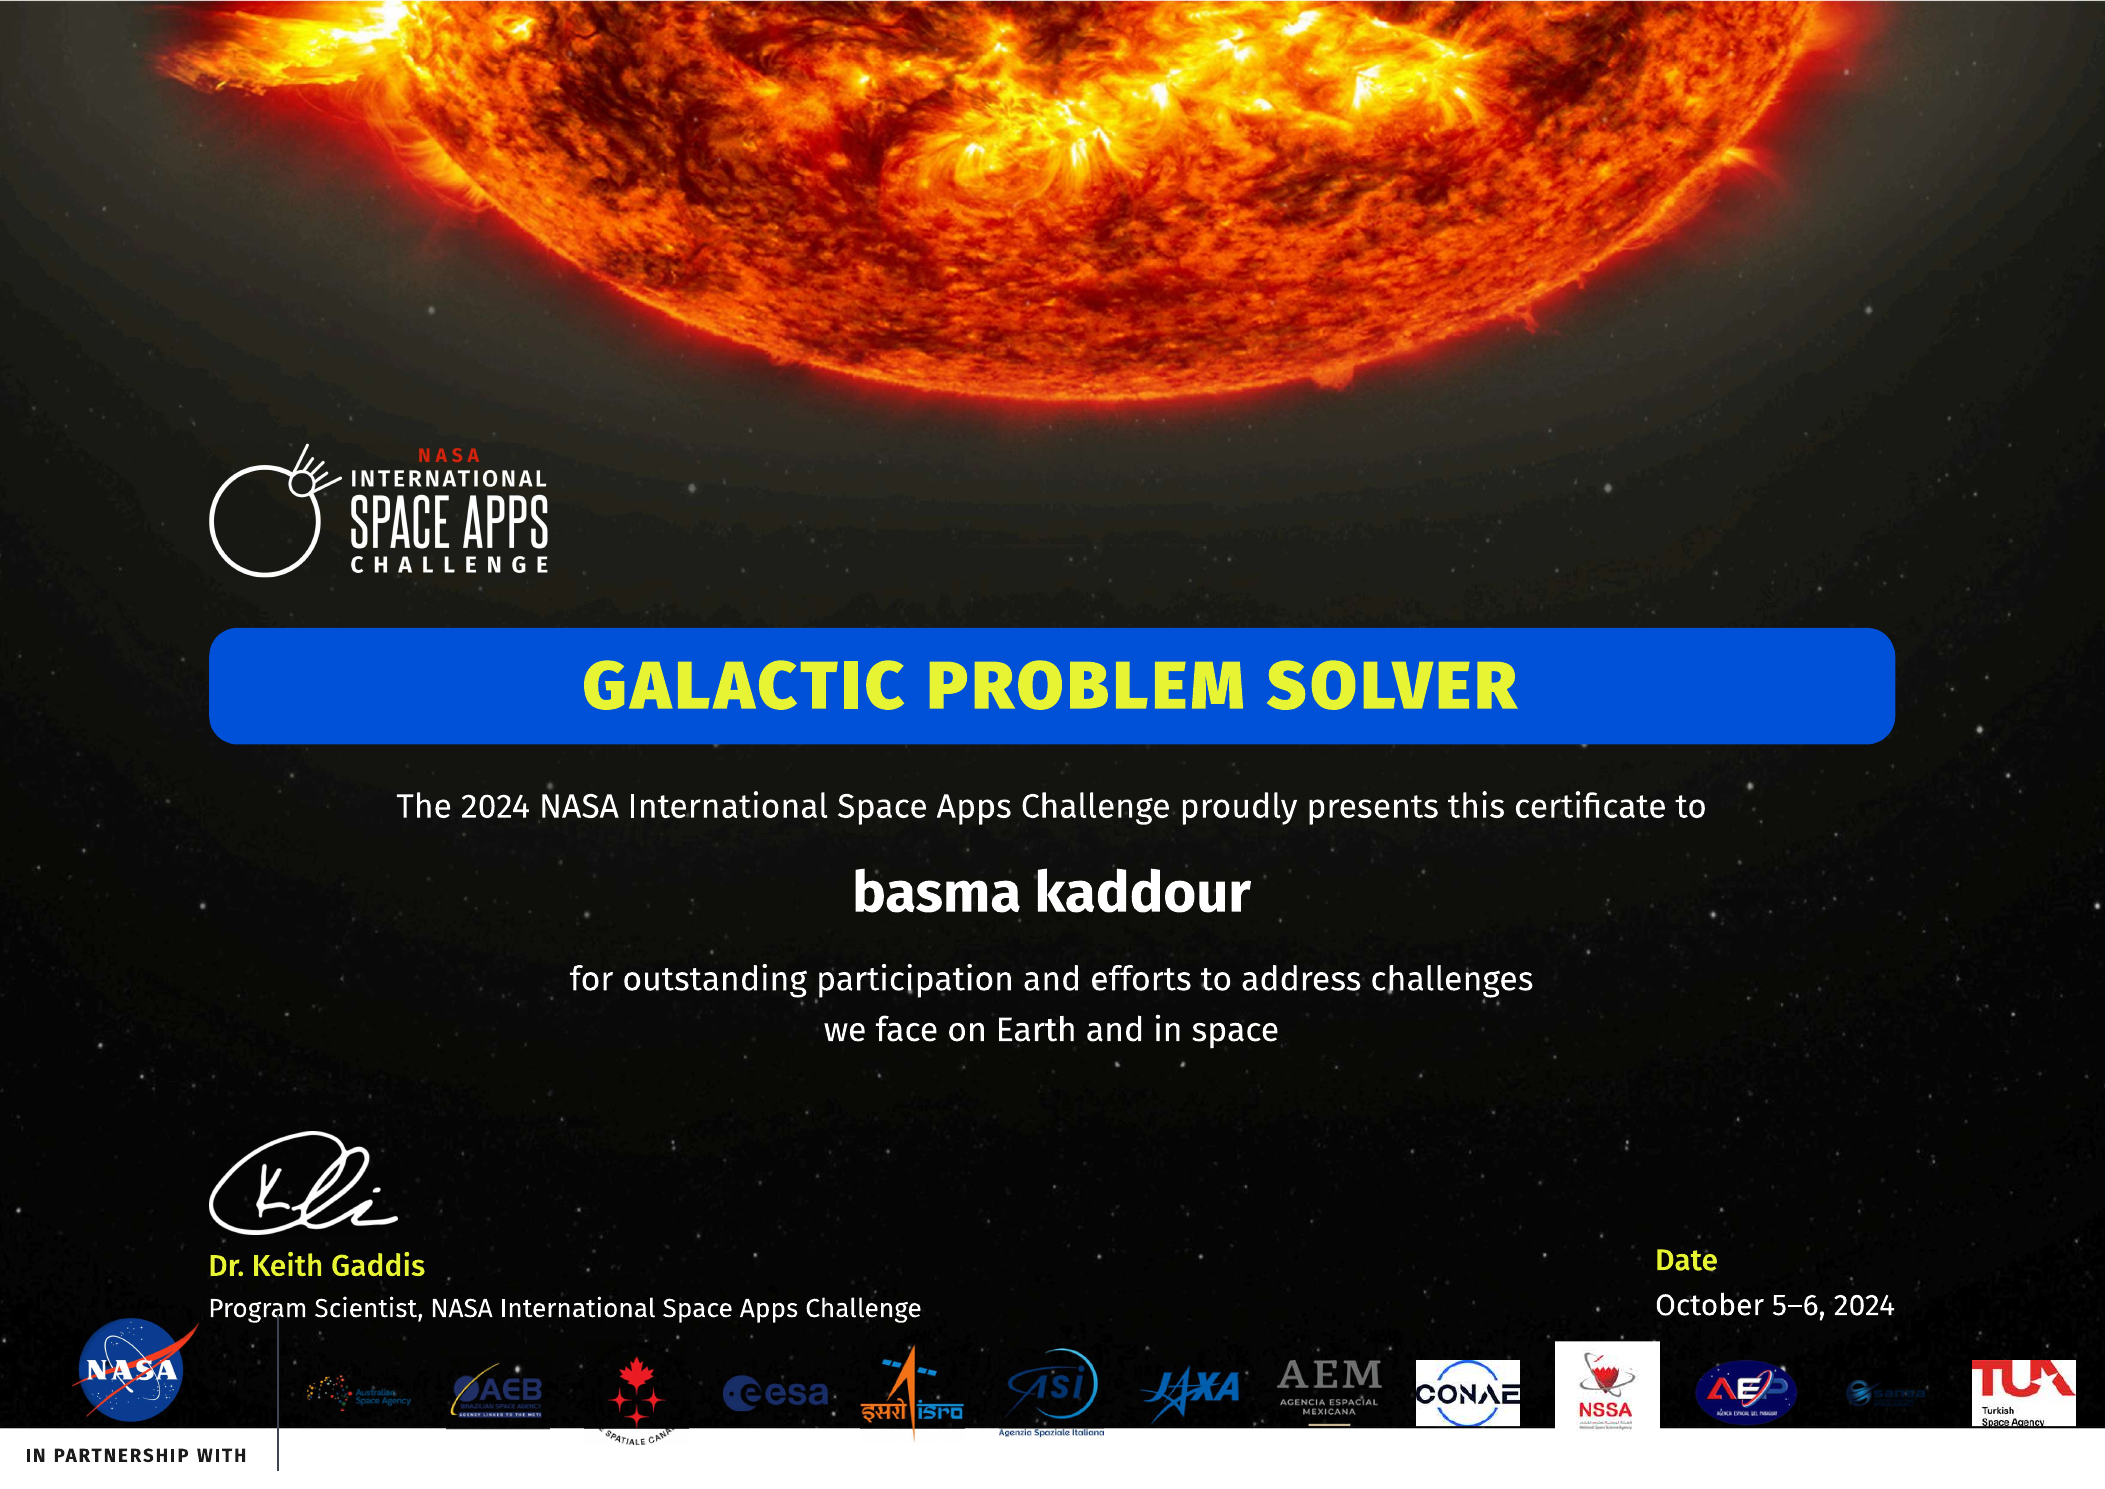
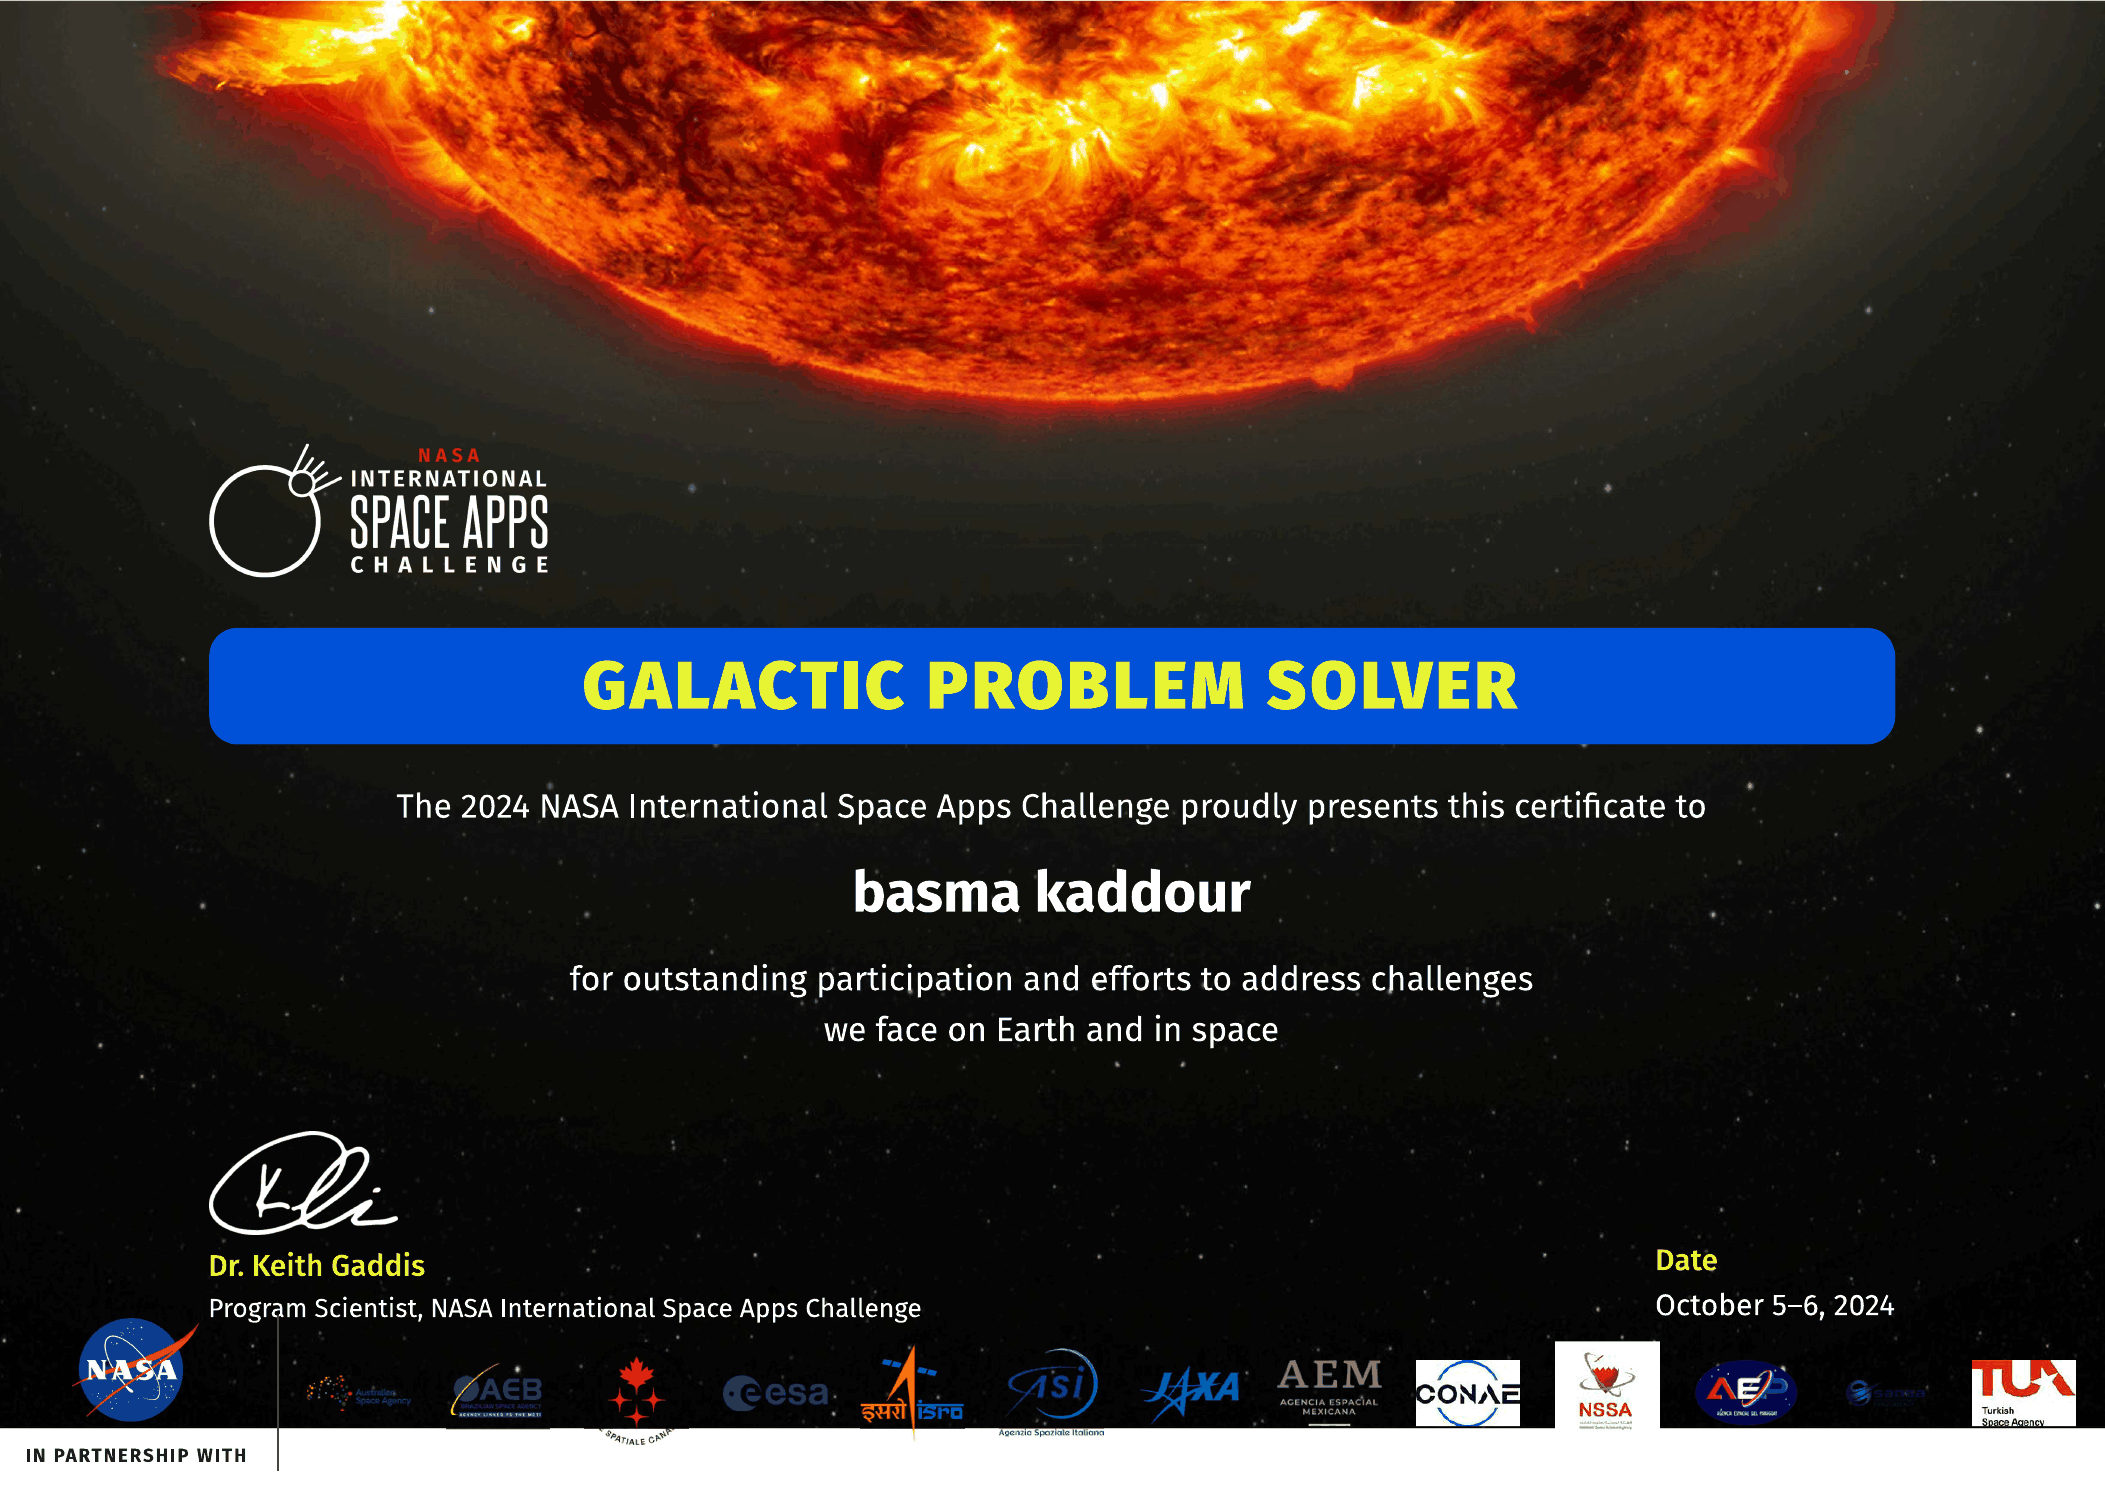
Checkpoint: Kept the dark editorial theme as requested, protected language/theme localStorage reads and writes for mobile browsers that block storage, and optimized the referenced portrait and certificate PNG assets below the checkpoint size limit while preserving dimensions and portrait transparenc

diff --git a/client/src/pages/Home.tsx b/client/src/pages/Home.tsx
@@ -40,6 +40,22 @@ type AccentLinkProps = {
   onClick?: () => void;
 };
 
+function readStoredValue(key: string) {
+  try {
+    return window.localStorage.getItem(key);
+  } catch {
+    return null;
+  }
+}
+
+function writeStoredValue(key: string, value: string) {
+  try {
+    window.localStorage.setItem(key, value);
+  } catch {
+    // Some mobile browsers block storage; the site remains fully usable without persistence.
+  }
+}
+
 function AccentLink({ href, children, onClick }: AccentLinkProps) {
   return (
     <a className="accent-link" href={href} onClick={onClick}>
@@ -191,7 +207,7 @@ function QrIdentity({ isArabic, tx }: { isArabic: boolean; tx: (en: string, ar: 
 
 function Home() {
   const [language, setLanguage] = useState<"en" | "ar" | "fr">(() => {
-    const saved = window.localStorage.getItem("besma-language");
+    const saved = readStoredValue("besma-language");
     if (saved === "ar" || saved === "en" || saved === "fr") return saved;
     if (window.navigator.language.toLowerCase().startsWith("fr")) return "fr";
     return window.navigator.language.toLowerCase().startsWith("ar") ? "ar" : "en";
@@ -201,7 +217,7 @@ function Home() {
   const [activeEngineering, setActiveEngineering] = useState(0);
   const [activeCategory, setActiveCategory] = useState("ALL");
   const [notice, setNotice] = useState("");
-  const [theme, setTheme] = useState<"dark" | "light">(() => window.localStorage.getItem("besma-theme-v2") === "dark" ? "dark" : "light");
+  const [theme, setTheme] = useState<"dark" | "light">(() => readStoredValue("besma-theme") === "light" ? "light" : "dark");
   const isArabic = language === "ar";
   const isFrench = language === "fr";
   const isLight = theme === "light";
@@ -233,11 +249,11 @@ function Home() {
   useEffect(() => {
     document.documentElement.lang = language;
     document.documentElement.dir = isArabic ? "rtl" : "ltr";
-    window.localStorage.setItem("besma-language", language);
+    writeStoredValue("besma-language", language);
   }, [isArabic, language]);
 
   useEffect(() => {
-    window.localStorage.setItem("besma-theme-v2", theme);
+    writeStoredValue("besma-theme", theme);
   }, [theme]);
 
   useEffect(() => {
